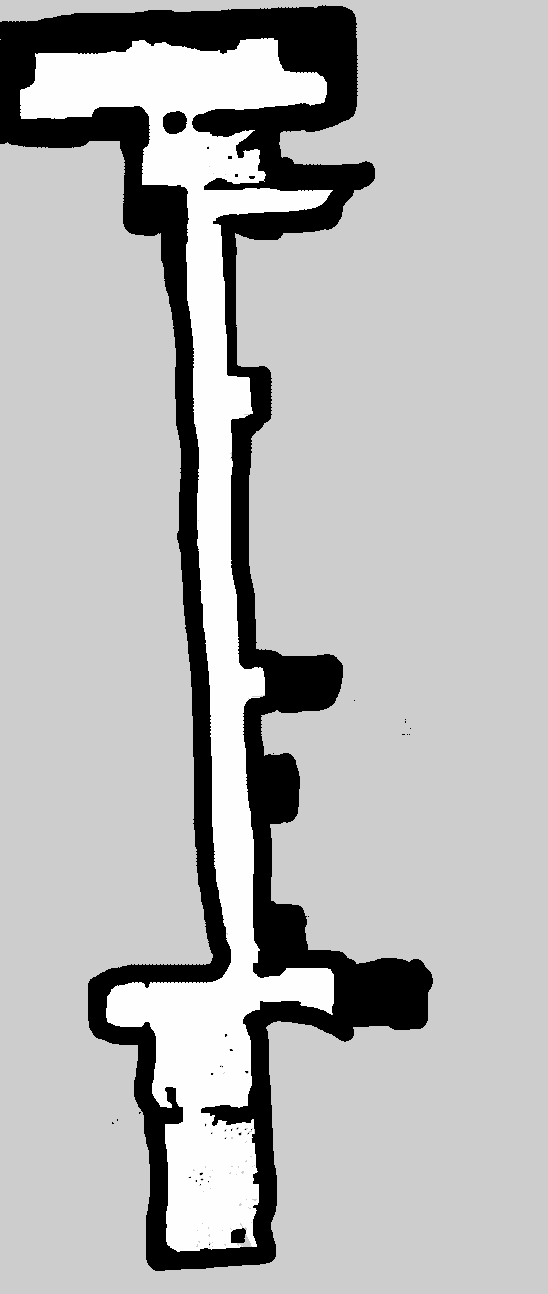
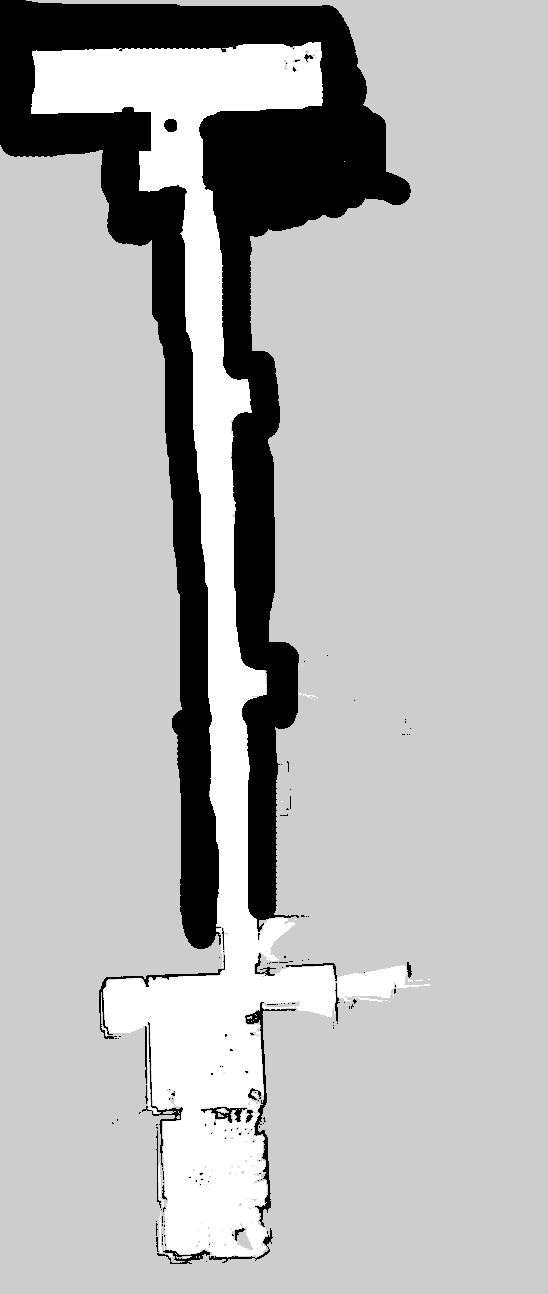
abb integration testing first day

diff --git a/README.md b/README.md
@@ -12,13 +12,17 @@ The harmony package developed for dynamic obstacle velocity estimation. This bra
 
 ## Usage
 
+If you dont have a map yet:
 - Create a map using `mapping.launch`
 - Save the map using `map_saver` in `map_server` (ensure the `/map` topic is saved)
 - Dilate/inflate the map around static obstacles (plus some margin) using a painting program, e. g. `Krita`
-- Ensure the modified map is loaded
-- Run `localization.launch`, give an initial ICP estimate
+
+If you have already created an inflated map:
+- Make sure that some localization framework is running
+- Run `inflated_map.launch`
 - Run `tracking.launch`
 - Enjoy!
+- For visualization: rviz -d `obstacle_detector/resources/obstacle_detector.rviz` and `rviz -d moving_object_tracking/rviz/harmony.rviz`
 
 ## Debugging
 
